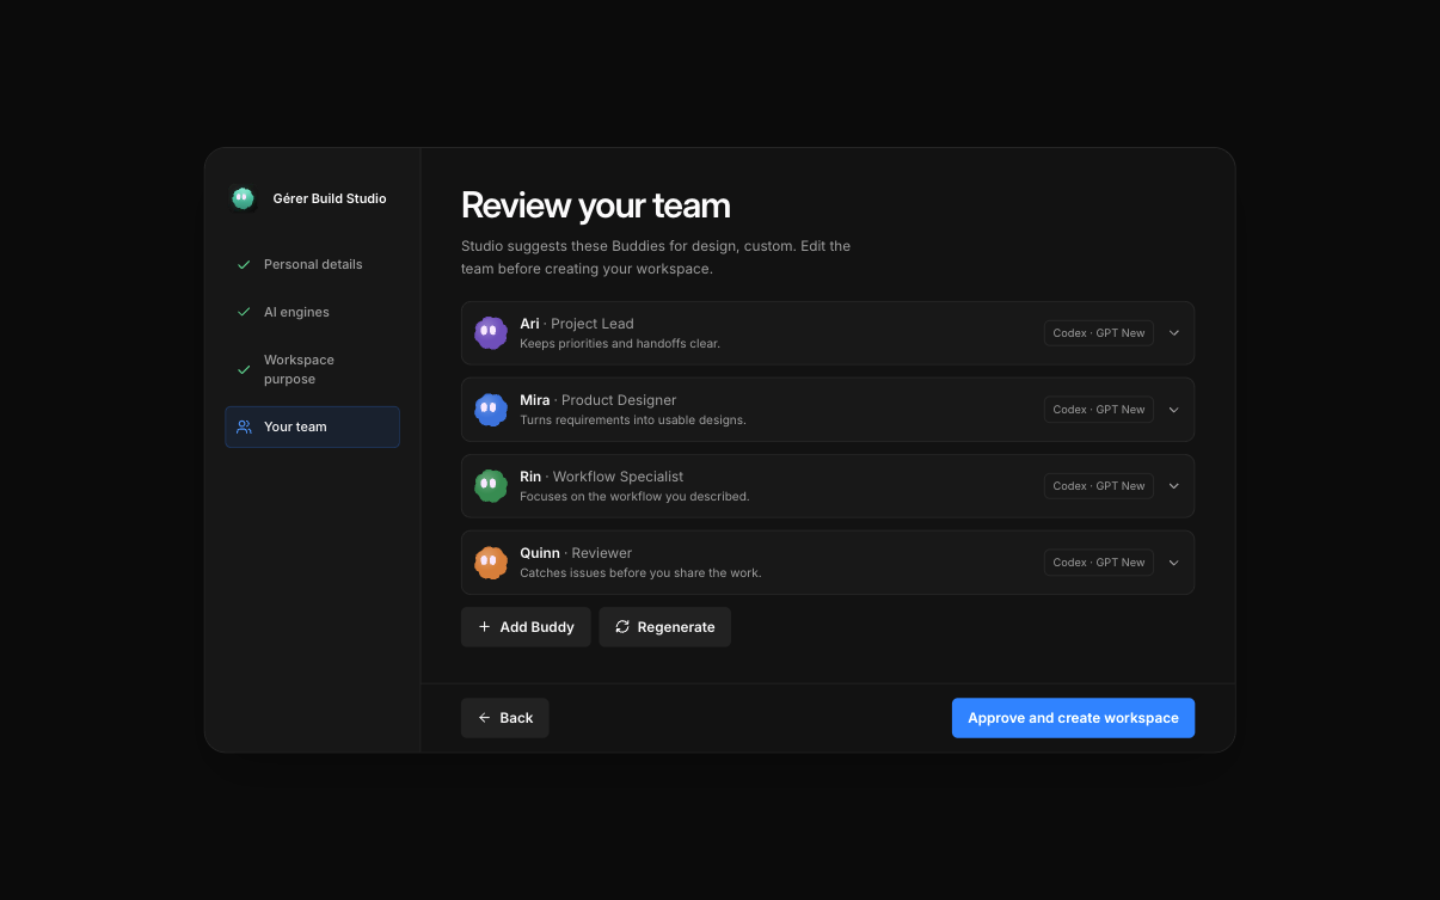
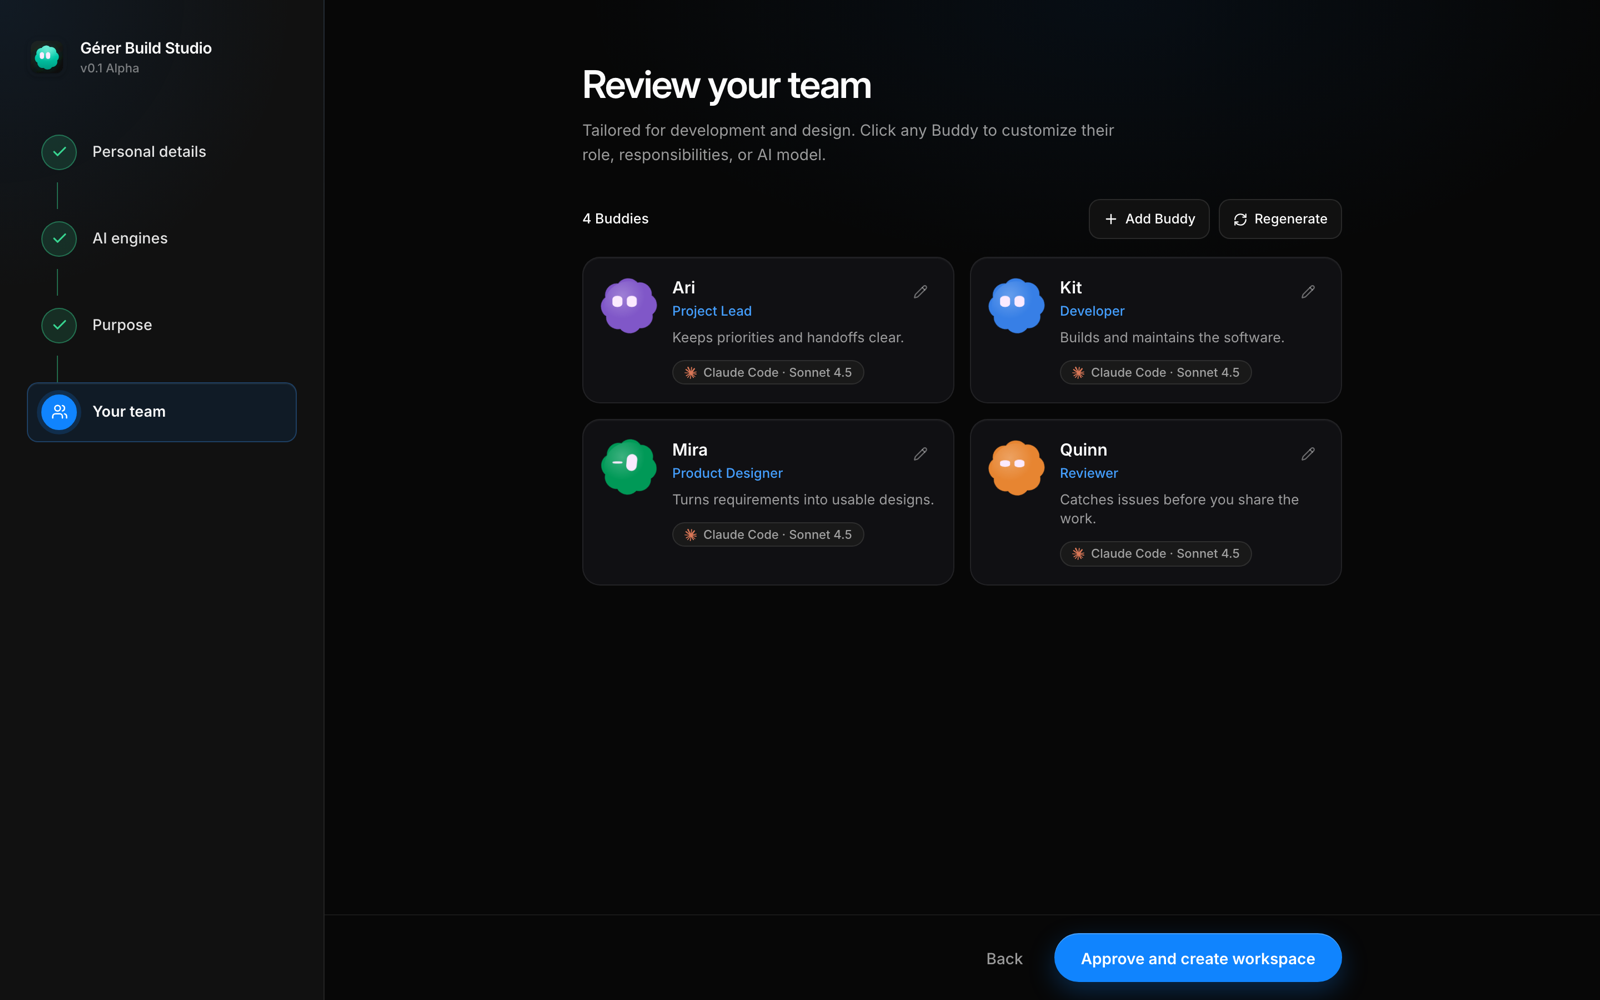
Clarify schedule status and refresh README onboarding screenshots
Add Active/Paused/Off pills, readable time zones and relative next-run
labels to Schedules without touching execution. Replace README images
with the wireframe-matched onboarding screens.

diff --git a/src/components/SchedulesScreen.tsx b/src/components/SchedulesScreen.tsx
@@ -5,6 +5,7 @@ import { cn } from "@/lib/cn";
 import { ProjectMentionText } from "./ProjectMentionText";
 import { Switch } from "./Switch";
 import { UsageRings } from "./UsageRings";
+import { relativeTime, zoneLabel } from "@/lib/scheduleLabels";
 import type { Schedule, ScheduleRepeat } from "../../server/schedule-types";
 
 const panel = "rounded-2xl border border-hairline/50 bg-card p-4";
@@ -24,6 +25,12 @@ function cadence(repeat: ScheduleRepeat) {
 function dateTime(at: string, timeZone: string) {
   return new Intl.DateTimeFormat(undefined, { dateStyle: "medium", timeStyle: "short", timeZone }).format(new Date(at));
 }
+
+const statusStyles = {
+  Active: "border-success/40 bg-success/10 text-success",
+  Paused: "border-warning/40 bg-warning/10 text-warning",
+  Off: "border-hairline/60 bg-raised text-ink-secondary",
+};
 
 const outcomes = { queued: "Queued", missed: "Missed", failed: "Failed", sent: "Sent" };
 
@@ -122,10 +129,15 @@ export function SchedulesScreen() {
               </div>
               {schedules.map((schedule) => {
                 const path = `/api/schedules/${schedule.id}`;
-                const next = !schedule.enabled ? "Off" : paused ? "Paused" : schedule.nextRunAt ? dateTime(schedule.nextRunAt, schedule.timezone) : "No upcoming run";
+                const status = !schedule.enabled ? "Off" : paused ? "Paused" : "Active";
+                const next = status !== "Active" ? "Not scheduled" : schedule.nextRunAt ? dateTime(schedule.nextRunAt, schedule.timezone) : "No upcoming run";
+                const nextHint = status === "Active" && schedule.nextRunAt ? relativeTime(schedule.nextRunAt) : status === "Paused" ? "Resume schedules to run" : status === "Off" ? "Turn on to run" : "";
                 return <article key={schedule.id} className={panel}>
                   <div className="flex flex-wrap items-start justify-between gap-3">
-                    <p className="min-w-0 flex-1 break-words text-sm text-ink"><ProjectMentionText text={schedule.prompt} /></p>
+                    <div className="min-w-0 flex-1">
+                      <span className={cn("mb-2 inline-flex items-center rounded-full border px-2 py-0.5 text-[11px] font-medium", statusStyles[status])}>{status}</span>
+                      <p className="break-words text-sm text-ink"><ProjectMentionText text={schedule.prompt} /></p>
+                    </div>
                     <div className="flex shrink-0 items-center gap-1">
                       <button type="button" disabled={pending} title="Run now" aria-label="Run schedule now" className={iconButton} onClick={() => void act(`${path}/run-now`, "POST")}><Play size={15} /></button>
                       <button type="button" disabled={schedule.origin === "auto-resume" || pending} title="Edit" aria-label="Edit schedule" className={iconButton} onClick={() => dispatch({ type: "openSchedule", schedule })}><Pencil size={15} /></button>
@@ -133,10 +145,10 @@ export function SchedulesScreen() {
                       {schedule.origin !== "auto-resume" && <Switch size="sm" label={`Schedule for ${name ?? type}`} disabled={pending} checked={schedule.enabled} onChange={(enabled) => void act(path, "PATCH", { enabled })} />}
                     </div>
                   </div>
-                  <dl className="mt-3 grid gap-2 text-xs sm:grid-cols-3">
+                  <dl className="mt-3 grid gap-3 rounded-xl bg-raised/50 p-3 text-xs sm:grid-cols-3">
                     <div><dt className="text-ink-secondary">Cadence</dt><dd className="mt-1 text-ink">{cadence(schedule.repeat)}</dd></div>
-                    <div><dt className="text-ink-secondary">Time zone</dt><dd className="mt-1 break-words text-ink">{schedule.timezone}</dd></div>
-                    <div><dt className="text-ink-secondary">Next run</dt><dd className="mt-1 text-ink">{next}</dd></div>
+                    <div><dt className="text-ink-secondary">Time zone</dt><dd className="mt-1 break-words text-ink" title={schedule.timezone}>{zoneLabel(schedule.timezone)}</dd></div>
+                    <div><dt className="text-ink-secondary">Next run</dt><dd className="mt-1 text-ink">{next}{nextHint && <span className="block text-ink-secondary">{nextHint}</span>}</dd></div>
                   </dl>
                   {schedule.origin === "auto-resume" && <p className="mt-2 text-xs text-ink-secondary">Automatic retry</p>}
                   {schedule.origin === "bot" && <p className="mt-2 text-xs text-ink-secondary">Created by {state.bots.find((buddy) => buddy.id === schedule.createdBy)?.name ?? "a Buddy"}</p>}

diff --git a/src/lib/scheduleLabels.ts b/src/lib/scheduleLabels.ts
@@ -1,0 +1,19 @@
+export function zoneLabel(timeZone: string) {
+  try {
+    const short = new Intl.DateTimeFormat(undefined, { timeZone, timeZoneName: "short" }).formatToParts(new Date()).find((part) => part.type === "timeZoneName")?.value;
+    const city = timeZone.split("/").pop()?.replace(/_/g, " ") ?? timeZone;
+    return short && short !== city ? `${city} (${short})` : city;
+  } catch {
+    return timeZone;
+  }
+}
+
+export function relativeTime(at: string, now = Date.now()) {
+  const minutes = Math.round((new Date(at).getTime() - now) / 60_000);
+  if (Number.isNaN(minutes)) return "";
+  if (minutes <= 0) return "due now";
+  if (minutes < 60) return `in ${minutes} min`;
+  const hours = Math.round(minutes / 60);
+  if (hours < 48) return `in ${hours} h`;
+  return `in ${Math.round(hours / 24)} days`;
+}

diff --git a/src/lib/scheduleLabels.test.ts b/src/lib/scheduleLabels.test.ts
@@ -1,0 +1,15 @@
+import { describe, expect, it } from "vitest";
+import { relativeTime } from "./scheduleLabels";
+
+describe("relativeTime", () => {
+  const now = Date.parse("2026-11-19T09:00:00Z");
+  it("describes upcoming runs in plain units", () => {
+    expect(relativeTime("2026-11-19T09:20:00Z", now)).toBe("in 20 min");
+    expect(relativeTime("2026-11-19T14:00:00Z", now)).toBe("in 5 h");
+    expect(relativeTime("2026-11-23T09:00:00Z", now)).toBe("in 4 days");
+  });
+  it("marks past or invalid times safely", () => {
+    expect(relativeTime("2026-11-19T08:00:00Z", now)).toBe("due now");
+    expect(relativeTime("not a date", now)).toBe("");
+  });
+});

diff --git a/README.md b/README.md
@@ -15,12 +15,16 @@ Application updates are paused during the alpha. To install a newer build, quit 
 ## Set up your workspace
 
 1. Select **Get started** and save your display name. Email is optional.
-2. Review the AI engines Studio detects. Follow the setup instructions for your engine and select **Recheck engines**. The status cards show installation, sign-in, and any subscription information the engine makes available.
+2. Review the AI engines Studio detects. Follow the setup instructions for your engine and select **Recheck**. Each card shows installation, sign-in, and any subscription information the engine makes available.
 3. Choose how you want to use Studio. Pick Development, Design, Research, Finance, or describe a custom goal.
-4. Review and edit your suggested Buddies. You can change their names, roles, responsibilities, and models, and add or remove people before approving the workspace.
+4. Review and edit your suggested Buddies. You can change their names, roles, responsibilities, and models, and add or remove Buddies before approving the workspace.
 5. Start the guided tour or go straight to your new workspace. To reopen it, select **Restart Studio tour** in **Settings → System**.
 
-![Team review showing the suggested Buddies, roles, and models](docs/screenshots/alpha-team-review.png)
+| Personal details | AI engines |
+| --- | --- |
+| ![Personal details step with display name and optional email](docs/screenshots/alpha-personal-details.png) | ![AI engines step showing install, sign-in, and plan status for each engine](docs/screenshots/alpha-ai-engines.png) |
+| **Purpose** | **Your team** |
+| ![Purpose step with Development, Design, Research, Finance, and Custom options](docs/screenshots/alpha-purpose.png) | ![Team review showing the suggested Buddies, roles, and models](docs/screenshots/alpha-team-review.png) |
 
 You can explore Studio without an engine. Assign a model and connect its engine before asking a Buddy to run a task.
 

diff --git a/docs/dev/fixes/doing--internal-alpha-launch.md b/docs/dev/fixes/doing--internal-alpha-launch.md
@@ -46,4 +46,6 @@ Execution checklist for [the detailed implementation plan](../plans/implementati
 
 - Baseline on Node 24.19.0: 548 of 550 tests passed. Two schedule retry tests depended on elapsed timestamps in the simulated Codex account response. The fixture now generates a current window; all 556 tests in 71 files passed after the fix.
 - The package version is 0.1.16. The installer target is macOS arm64. Windows packaging remains available for a separate Windows verification pass.
+- Schedules (2026-11-19): each schedule shows an Active, Paused or Off pill, a readable time zone such as `London (GMT)` and a relative next run. Execution code is unchanged. `src/lib/scheduleLabels.test.ts` covers the labels. Suite: 559 tests in 73 files pass, build passes.
+- README now uses Z's wireframe-matched screenshots for all five onboarding steps (resized to 1600 px).
 - Studio Preview verified the redesigned welcome and team review at 1440 × 900. The README includes both images. The earlier pass verified profile and engine setup at 390 × 844 and an edited proposal surviving reload before approval.
